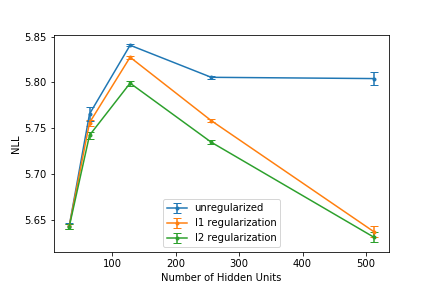
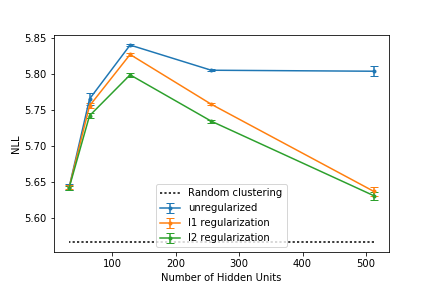
content

diff --git a/report/tacl/tacl.tex b/report/tacl/tacl.tex
@@ -27,44 +27,39 @@
 \usepackage[hidelinks]{hyperref}
 \DeclareMathOperator*{\argmax}{arg\,max}
 \setlength\titlebox{6.5cm}    % Expanding the titlebox
+\setlength{\thinmuskip}{0mu}
+\setlength{\medmuskip}{0mu}
+\setlength{\thickmuskip}{0mu} 
 
 \title{Discrete Structured Representation Learning}
 
 \author{Benjamin Striner \\
   {\tt bstriner@andrew.cmu.edu} \\}
 
-\date{}
+\date{October 19, 2017}
 
 \begin{document}
 \maketitle
 \begin{abstract}
-  Placeholder
+Discrete structured representation learning allows the compression of information into a finite space and the representation of information in a manner that is understandable and explainable. Continuous neural networks are efficient to optimize but do not allow for easy interpretation. We present experiments optimizing over discrete hidden representations that can be interpreted as ontologies or decision trees. We also examine conventional post-mortem clustering and find that it frequently underperforms random assignments.
 \end{abstract}
-
-\setlength{\thinmuskip}{0mu}
-\setlength{\medmuskip}{0mu}
-\setlength{\thickmuskip}{0mu} 
-
 
 \section{Introduction}
 
-Hidden representations inferred by neural networks are most frequently dense and continuous. Discrete representations are hard to interpret, so techniques for clustering, visualization, and dimensionality reduction are applied to make the hidden representation understandable. These analyses are typically applied to the hidden representations "post-mortem" (after training).
+Hidden representations inferred by neural networks are most frequently dense and continuous. Discrete representations are hard to interpret, so techniques for clustering, visualization, and dimensionality reduction are applied to make the hidden representation understandable. These analyses are typically applied to hidden representations ``post-mortem'' (after training).
 
-Conventional linguistic ontologies attempt to organize words, concepts, or other objects into a discrete structure, typically a hierarchical tree. This type of representation is more understandable to 
+Conventional linguistic ontologies attempt to organize words, concepts, or other objects into a discrete structure, typically a hierarchical tree (e.g., WordNet, PropBank). This type of representation tends to be more understandable than a dense matrix multiplication. Human knowledge is commonly and traditionally represented as facts, nodes, networks, or other types of discrete structures.
 
-The ability to learn discrete representations allows for extreme reduction in the number of bits required to encode each input.
-
-Attempt to learn discrete representations \cite{Hu17}
+The ability to learn discrete representations allows for reduction in the number of bits required to encode each input \cite{Hu17}.
+Structured discrete representations may have other advantages when used by higher-level models, such as better enabling logic and tree searching.
 
 \section{Method}
 
 We provide a method for expanding existing neural networks to learn a discrete hidden representation. To focus on the core optimization problems, we focus on one of the simplest models, learning a skipgram model as discussed in \cite{Mikolov1301} \cite{MikolovSCCD13}.
 
-Let $X$ and $Y$ be two discrete variables. We will discuss methods for factoring the distribution $P(X,Y)$.
+Let $X$ and $Y$ be two discrete variables. We will discuss methods for factoring the distribution $P(X,Y)$. Let the matrix $A$ represent the joint distribution.
 
-%Let $A$ be a matrix representing the joint distribution of two discrete variables $X$ and $Y$.
-
-%$$A_{x,y}=P(X=x, Y=y)$$
+$$A_{x,y}=P(X=x, Y=y)$$
 
 The entropy of the marginal distribution, $H(Y)$, measures the complexity of the data if only $Y$ is considered. In the case of a skipgram matrix, this is roughly the entropy of the unigram distribution.
 
@@ -292,6 +287,8 @@ Adding regularization to our binary tree model improved performance at the botto
 \section{Discussion}
 
 Optimizing the conditional entropy of $P(Y\mid Z)$ was an effective method of forming clusters. Clusters contained more information regarding $Y$ than clusters created using post-mortem methods.
+
+Although clustering hidden representations should intuitively capture information related to the objective, we found that this was frequently not the case. In many situations, post-mortem clustering of hidden representations produced worse clusters than random clustering. Regularization and the size of the hidden space have strong effects on the result of the clustering, which can be avoided by using our proposed models.
 
 Regularization prevented underutilization caused by death of some clusters. Barrier and exclusive lasso regularizers prevented underutilization. It is critical to fully understand the dynamics of the optimization problem in such a simple environment, so it can be applied to more complicated networks.
 
